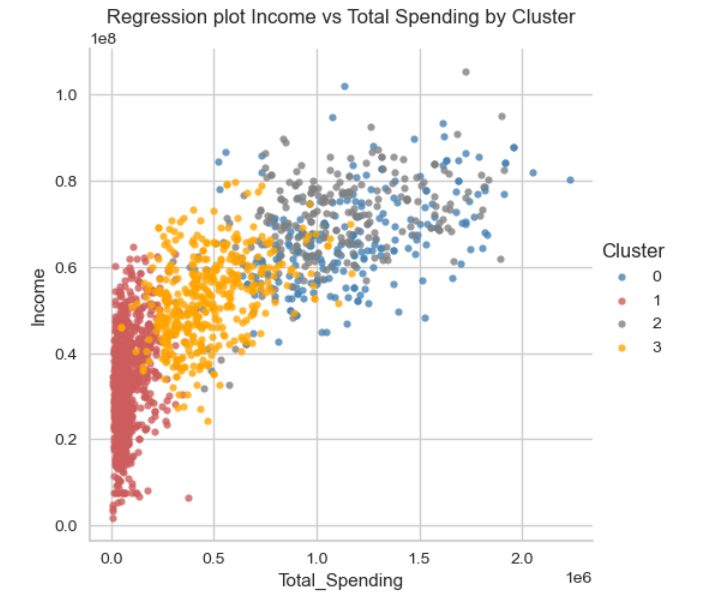
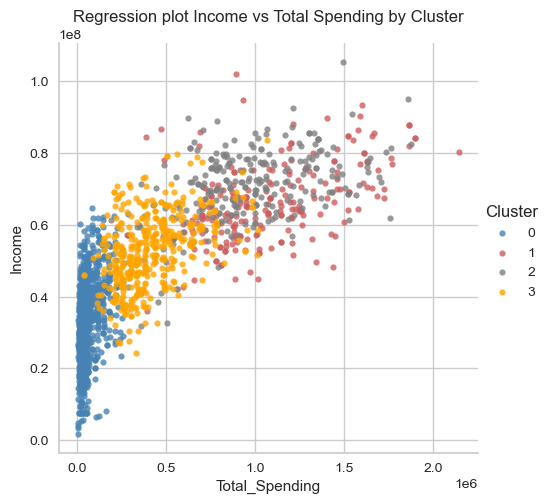
#

diff --git a/README.md b/README.md
@@ -188,6 +188,8 @@ Evaluasi hasil model menggunakan **Silhouette Score memberikan rekomendasi bahwa
 ## 📂 STAGE 4: Customer Personality Analysis
 
 Customer Personality Analysis bertujuan untuk **memahami perbedaan dan kesamaan antara cluster-cluster tersebut, serta mengidentifikasi karakteristik unik yang mungkin dimiliki oleh setiap kelompok.** Dengan pemahaman yang lebih mendalam tentang karakteristik antar cluster, perusahaan dapat mengambil tindakan yang lebih tepat dan mengarahkan strategi bisnis yang lebih spesifik untuk setiap kelompok pelanggan.
-![alt text](https://github.com/imalfunadam/Predict-Customer-Personality-to-Boost-Marketing-Campaign-by-Using-Machine-Learning/blob/main/assets/Gambar%205%20—%20Hasil%20Evaluasi.png)
+![alt text](https://github.com/imalfunadam/Predict-Customer-Personality-to-Boost-Marketing-Campaign-by-Using-Machine-Learning/blob/main/assets/Gambar%206%20—%20Plot%20Pendapatan%20dan%20Total%20Pengeluaran%20Berdasarkan%20Cluster.png)
 
 <h5 align="center">Gambar 6 — Plot Pendapatan dan Total Pengeluaran Berdasarkan Cluster</h5>
+
+Berdasarkan plot korelasi antara pendapatan (Income) dan total pengeluaran (Total Spending), terlihat bahwa terdapat pembentukan cluster atau kelompok yang dapat dibedakan. Dalam hal ini, cluster 0 dan 3 cenderung berada dalam satu kelompok yang menunjukkan adanya persamaan dan perbedaan karakteristik di antara kedua cluster tersebut. Ketika dua cluster berada dalam satu kelompok, hal ini mengindikasikan bahwa terdapat kemiripan atau keterkaitan dalam pola pendapatan dan pengeluaran di antara anggota-anggota cluster tersebut. Secara visual, terlihat bahwa kedua cluster tersebut mungkin memiliki tingkat pendapatan dan pengeluaran yang relatif mirip atau memiliki tren yang serupa.
